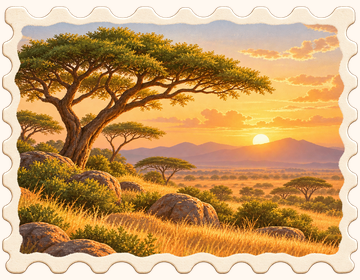
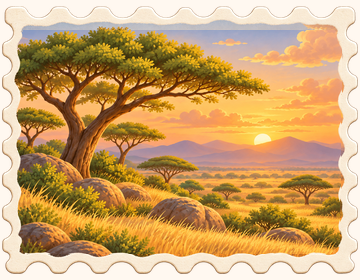
Illustrate travel photos stamps and news thumbnails

diff --git a/assets/ui-records/provenance/prompts-bg.md b/assets/ui-records/provenance/prompts-bg.md
@@ -260,3 +260,83 @@ Source: C:\Users\User\.codex\generated_images\01a172b4-5ecf-71e2-be1c-70fd45f12b
 Prompt: Match image1 approved room-home style exactly: rounded soft detailed painted storybook mobile game illustration, warm cream beige muted greens pale orange, medium-scale painted decorative details, gentle gradients and highlights, never photoreal, no camera blur/bokeh, no lens flare, no strong dark shadows, no realistic microscopic texture. No cats, humans, animals, UI or logos. Full bleed opaque rectangle. Very tall portrait1179x2556 world screen background. Pale pastel sky and rounded cream clouds at top, gradually blending into old ivory world-map paper in middle and lower areas. A faint simplified world map, a tiny warm orange airplane and a delicate dotted curved flight route near upper right. Central and bottom card areas are very pale low contrast cream, calm. Gentle painted paper textures and rounded forms, not realistic clouds. NO labels, place names or any text.
 
 Final: (1179, 2556), opaque. SHA256: 8deaf1b4b3dd772813edb53cd342d7e9570046a1b04e3a7906db76f19a5200ce
+
+## UI fixes resumed: bg/photo-japan.png
+
+Source: C:\Users\User\.codex\generated_images\01a172b4-5ecf-71e2-be1c-70fd45f12b5e\exec-1a93a713-5199-49cf-b881-3be3020a70bd.png
+
+Prompt: Edit this illustration ONLY to correct the red pagoda: it currently has FOUR roof tiers but must be a FIVE-STORY Japanese pagoda. Draw EXACTLY FIVE clearly separated large tiled roof tiers stacked vertically, not counting the small golden finial. Keep the entire pagoda visible. Keep cherry blossoms, Fuji, lake, colors, soft detailed painted storybook style, composition otherwise unchanged. No people, cats, animals or text. Opaque full landscape rectangle600x460.
+
+Processing: Lanczos resize to exact dimensions; RGB opaque
+
+SHA256: 7566179dcc0b70864474289f8c8e1727442bc1bbaa181b03feb1172cdb8fabb5
+
+## UI fixes resumed: bg/stamp-photo-kenya.png
+
+Source: C:\Users\User\.codex\generated_images\01a172b4-5ecf-71e2-be1c-70fd45f12b5e\exec-56fb62a6-3c42-4286-abce-3a589b22684c.png
+
+Prompt: Image1 is approved STYLE ONLY: soft rounded detailed painted storybook game illustration, warm cream/beige, muted green and pale orange, medium-scale delicate painted details. NOT photographic, no realistic grain or fibers, no camera bokeh, lens flare or harsh dark shadows. No cats, people, animals, letters, labels or logos. Image2 is EDIT TARGET. Repaint ONLY the scenery inside this postage stamp as a detailed soft illustration: Kenya savanna sunset, acacia tree left, distant hills and golden grass. Preserve the original EXACT scalloped outer silhouette, thin brown outline and ivory paper border including every corner and its position. Preserve cream outside the stamp. Do not redesign stamp, do not add marks or perforations. Same composition as target but illustrated. Landscape360x280, full opaque canvas.
+
+Processing: Lanczos resize to exact dimensions; RGB opaque; preserve original exterior/frame pixels outside recorded interior polygon
+
+SHA256: 9fd67a859c90cccb1e85325e90c31cc3cfae8ba541f76b641fbde070e87f630c
+
+## UI fixes resumed: bg/stamp-photo-france.png
+
+Source: C:\Users\User\.codex\generated_images\01a172b4-5ecf-71e2-be1c-70fd45f12b5e\exec-0b3deecc-df43-47c2-9f24-50274a2d259d.png
+
+Prompt: Image1 is approved STYLE ONLY: soft rounded detailed painted storybook game illustration, warm cream/beige, muted green and pale orange, medium-scale delicate painted details. NOT photographic, no realistic grain or fibers, no camera bokeh, lens flare or harsh dark shadows. No cats, people, animals, letters, labels or logos. Image2 is EDIT TARGET. Repaint ONLY the scenery inside this postage stamp as a detailed soft illustration: Paris Eiffel Tower with street lamp at left, riverside and flowers. Preserve the original EXACT scalloped outer silhouette, thin brown outline and ivory paper border including every corner and its position. Preserve cream outside the stamp. Do not redesign stamp, do not add marks or perforations. Same composition as target but illustrated. Landscape360x280, full opaque canvas.
+
+Processing: Lanczos resize to exact dimensions; RGB opaque; preserve original exterior/frame pixels outside recorded interior polygon
+
+SHA256: 1f9c1fc9656059c5029c584ae117e8cee0a9d8b70041030d2b9e7d71b0b2f598
+
+## UI fixes resumed: bg/stamp-photo-japan.png
+
+Source: C:\Users\User\.codex\generated_images\01a172b4-5ecf-71e2-be1c-70fd45f12b5e\exec-f179a266-1aee-4b62-a74e-65203260ced1.png
+
+Prompt: Image1 is approved STYLE ONLY: soft rounded detailed painted storybook game illustration, warm cream/beige, muted green and pale orange, medium-scale delicate painted details. NOT photographic, no realistic grain or fibers, no camera bokeh, lens flare or harsh dark shadows. No cats, people, animals, letters, labels or logos. Image2 is EDIT TARGET. Repaint ONLY the scenery inside this postage stamp as a detailed soft illustration: Large red torii gate in foreground, snowcapped Mount Fuji, pink cherry blossoms, lake. Preserve the original EXACT scalloped outer silhouette, thin brown outline and ivory paper border including every corner and its position. Preserve cream outside the stamp. Do not redesign stamp, do not add marks or perforations. Same composition as target but illustrated. Landscape360x280, full opaque canvas.
+
+Processing: Lanczos resize to exact dimensions; RGB opaque; preserve original exterior/frame pixels outside recorded interior polygon
+
+SHA256: 15436960f4c176c9e172298e9d172aa0cecdfbb04e9043e66db0c76aefa2c94d
+
+## UI fixes resumed: bg/stamp-photo-korea.png
+
+Source: C:\Users\User\.codex\generated_images\01a172b4-5ecf-71e2-be1c-70fd45f12b5e\exec-5a2f30dd-1fb0-47be-a9c4-c6320cc759cb.png
+
+Prompt: Image1 is approved STYLE ONLY: soft rounded detailed painted storybook game illustration, warm cream/beige, muted green and pale orange, medium-scale delicate painted details. NOT photographic, no realistic grain or fibers, no camera bokeh, lens flare or harsh dark shadows. No cats, people, animals, letters, labels or logos. Image2 is EDIT TARGET. Repaint ONLY the scenery inside this postage stamp as a detailed soft illustration: Traditional Korean hanok alley, tiled curved roofs, plants, warm stone path. Remove every existing sign or writing. Preserve the original EXACT scalloped outer silhouette, thin brown outline and ivory paper border including every corner and its position. Preserve cream outside the stamp. Do not redesign stamp, do not add marks or perforations. Same composition as target but illustrated. Landscape360x280, full opaque canvas.
+
+Processing: Lanczos resize to exact dimensions; RGB opaque; preserve original exterior/frame pixels outside recorded interior polygon
+
+SHA256: 5f3cf65404f9a5244ef215b4016385d33e2f9f222923206b05ccab640c5ac9ec
+
+## UI fixes resumed: bg/news-thumb-1.png
+
+Source: C:\Users\User\.codex\generated_images\01a172b4-5ecf-71e2-be1c-70fd45f12b5e\exec-0216d95d-0fef-4fc7-8595-11e0aedd17aa.png
+
+Prompt: Image1 is approved STYLE ONLY: soft rounded detailed painted storybook game illustration, warm cream/beige, muted green and pale orange, medium-scale delicate painted details. NOT photographic, no realistic grain or fibers, no camera bokeh, lens flare or harsh dark shadows. No cats, people, animals, letters, labels or logos. Image2 is edit target. Repaint with approved painted illustration style, preserving same subject, exact overall silhouette/cutout shape and composition: Traditional Korean hanok roofs, warm stone steps and small garden alley. Canvas330x330 square opaque warm cream #FFF8F0 outside illustration. No hard rectangular scene background. Keep silhouette and margins, not a full landscape. No text.
+
+Processing: Lanczos resize to exact dimensions; RGB opaque
+
+SHA256: f56de869253cef8b0be5d94f5f7e689054d3d7670d202827853ded8f4874b5c9
+
+## UI fixes resumed: bg/news-thumb-2.png
+
+Source: C:\Users\User\.codex\generated_images\01a172b4-5ecf-71e2-be1c-70fd45f12b5e\exec-d247052e-b6c2-47a5-a61b-b4b3f3d059fc.png
+
+Prompt: Image1 is approved STYLE ONLY: soft rounded detailed painted storybook game illustration, warm cream/beige, muted green and pale orange, medium-scale delicate painted details. NOT photographic, no realistic grain or fibers, no camera bokeh, lens flare or harsh dark shadows. No cats, people, animals, letters, labels or logos. Image2 is edit target. Repaint with approved painted illustration style, preserving same subject, exact overall silhouette/cutout shape and composition: French cafe street with orange awning, empty chairs, street lamps and flower pots. Canvas330x330 square opaque warm cream #FFF8F0 outside illustration. No hard rectangular scene background. Keep silhouette and margins, not a full landscape. No text.
+
+Processing: Lanczos resize to exact dimensions; RGB opaque
+
+SHA256: de7b9d33cabd24cfdbacfc2efff0f4d678d2ba1122696784ef11e6d7300a7f35
+
+## UI fixes resumed: bg/news-thumb-3.png
+
+Source: C:\Users\User\.codex\generated_images\01a172b4-5ecf-71e2-be1c-70fd45f12b5e\exec-16bcf6df-d355-47da-8d91-fdd488bc5d57.png
+
+Prompt: Image1 is approved STYLE ONLY: soft rounded detailed painted storybook game illustration, warm cream/beige, muted green and pale orange, medium-scale delicate painted details. NOT photographic, no realistic grain or fibers, no camera bokeh, lens flare or harsh dark shadows. No cats, people, animals, letters, labels or logos. Image2 is edit target. Repaint with approved painted illustration style, preserving same subject, exact overall silhouette/cutout shape and composition: Orange beret with small white flowers and green leaves resting on ivory lace doily on a small round wooden base. Canvas330x330 square opaque warm cream #FFF8F0 outside illustration. No hard rectangular scene background. Keep silhouette and margins, not a full landscape. No text.
+
+Processing: Lanczos resize to exact dimensions; RGB opaque
+
+SHA256: 6bbbab99348fa2cebe759ede264ff99783e6c7146150592851edb8df63ed8cb7

diff --git a/assets/ui-records/README.md b/assets/ui-records/README.md
@@ -74,3 +74,6 @@ Built-in image_gen returned HTTP429 usage_limit_reached; generation stopped. Res
 Validation: provenance/ui-fixes-validation.json. All5 completed files pass exact dimensions, PNG, opacity, SHA256, bytes and EXIF checks. Application code and cat character source assets unchanged. Images visually inspected; no app/device rendering verification.
 Existing stamp/news files are RGB opaque with cream exterior; keep original cutout/scallop silhouettes when resuming. Empty-state illustrations are explicit cat exceptions to background no-cat rule.
 Lint attempted: unavailable (no lint script). Typecheck attempted with npx --no-install tsc --noEmit; local dependencies absent, npm registry resolution failed (ENOTFOUND registry.npmjs.org); no pass claimed.
+
+## UI fixes resumed: priority3 complete
+Replaced photo-japan (600x460), stamp-photo-kenya/france/japan/korea (360x280), news-thumb-1/2/3 (330x330). Opaque RGB PNG. Stamps preserve original frame/exterior pixels outside recorded interior polygons. Approved rounded detailed illustration style, no cats/people/text. Photo-japan required2 generations to correct five pagoda roof tiers; other7 assets one generation each. Comparison: previews/regen-travel-thumbnails.png. Prompts and exact finishing polygons: provenance/regen-resume.json and prompts-bg.md. Built-in image_gen only for illustration creation.
